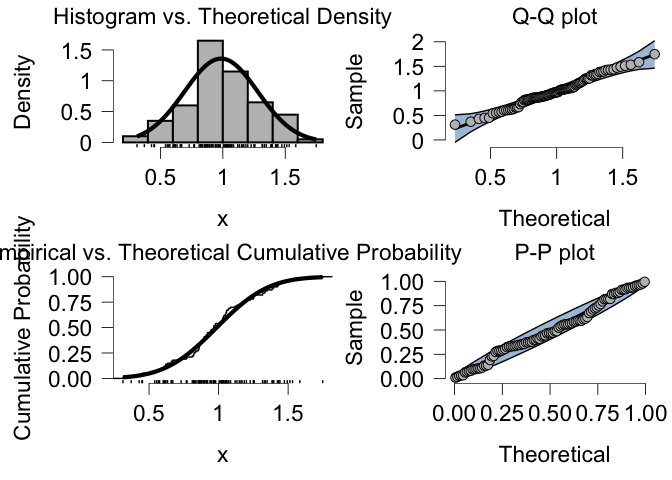
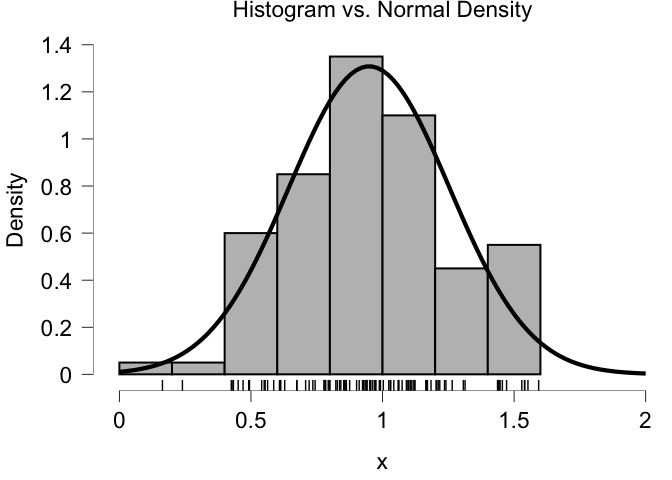
regen readme

diff --git a/README.md b/README.md
@@ -42,9 +42,9 @@ x <- rng(n, 100) * 0.3 + 1
 # goodness-of-fit tests
 gof_test(n, x, estimated=FALSE)
 #>              test  statistic      p_value
-#> ks_test   ks_test  0.6556809 9.096591e-38
-#> cvm_test cvm_test 15.5909272 0.000000e+00
-#> ad_test   ad_test 74.5152049 6.000000e-06
+#> ks_test   ks_test  0.6446443 1.604742e-36
+#> cvm_test cvm_test 14.7052995 0.000000e+00
+#> ad_test   ad_test 69.6388496 6.000000e-06
 
 # fit to data (maximum likelihood by default)
 n <- fit(n, data=x)
@@ -52,37 +52,29 @@ n <- fit(n, data=x)
 # get uncertainty around parameter estimates using normal theory intervals
 parameter_inference(n, NormalTheory(), x)
 #>         key   label  estimate         se     lower     upper
-#> mu       mu    \\mu 0.9861917 0.02934783 0.9286710 1.0437124
-#> sigma sigma \\sigma 0.2934783 0.02075203 0.2554977 0.3371048
+#> mu       mu    \\mu 0.9491470 0.03048872 0.8893902 1.0089038
+#> sigma sigma \\sigma 0.3048872 0.02155877 0.2654301 0.3502097
 
 # fit indices of the fitted distribution
 gof_test(n, x, estimated=TRUE)
 #>                                      test  statistic   p_value
-#> lillie_test                   lillie_test 0.07453232 0.1875239
-#> cvm_test                         cvm_test 0.09264333 0.1400276
-#> ad_test                           ad_test 0.51361252 0.1888669
-#> shapiro_wilk_test       shapiro_wilk_test 0.98748664 0.4711598
-#> shapiro_francia_test shapiro_francia_test 0.98913316 0.5088190
+#> lillie_test                   lillie_test 0.05428551 0.6644937
+#> cvm_test                         cvm_test 0.03436303 0.7790073
+#> ad_test                           ad_test 0.29816661 0.5812252
+#> shapiro_wilk_test       shapiro_wilk_test 0.98762523 0.4809980
+#> shapiro_francia_test shapiro_francia_test 0.99008937 0.5808850
 information_criteria(n, x)
 #>   n_par n_obs   log_lik      aic      bic
-#> 1     2   100 -19.29869 42.59738 47.80772
+#> 1     2   100 -23.11251 50.22503 55.43537
 
 # compare data to distribution
-plot_empirical(n, x, ci=TRUE)
-#> Warning: Using `size` aesthetic for lines was deprecated in ggplot2 3.4.0.
-#> ℹ Please use `linewidth` instead.
-#> ℹ The deprecated feature was likely used in the DistributionS7 package.
-#>   Please report the issue to the authors.
-#> This warning is displayed once every 8 hours.
-#> Call `lifecycle::last_lifecycle_warnings()` to see where this warning was
-#> generated.
-#> Warning: `expand_scale()` was deprecated in ggplot2 3.3.0.
-#> ℹ Please use `expansion()` instead.
-#> ℹ The deprecated feature was likely used in the DistributionS7 package.
-#>   Please report the issue to the authors.
-#> This warning is displayed once every 8 hours.
-#> Call `lifecycle::last_lifecycle_warnings()` to see where this warning was
-#> generated.
+plot_hist(n, x) + ggplot2::ggtitle("Histogram vs. Normal Density")
 ```
 
 <img src="man/figures/README-unnamed-chunk-3-1.png" width="100%" />
+
+``` r
+plot_qq(n, x, ci=TRUE) + ggplot2::ggtitle("Q-Q plot") 
+```
+
+<img src="man/figures/README-unnamed-chunk-3-2.png" width="100%" />
